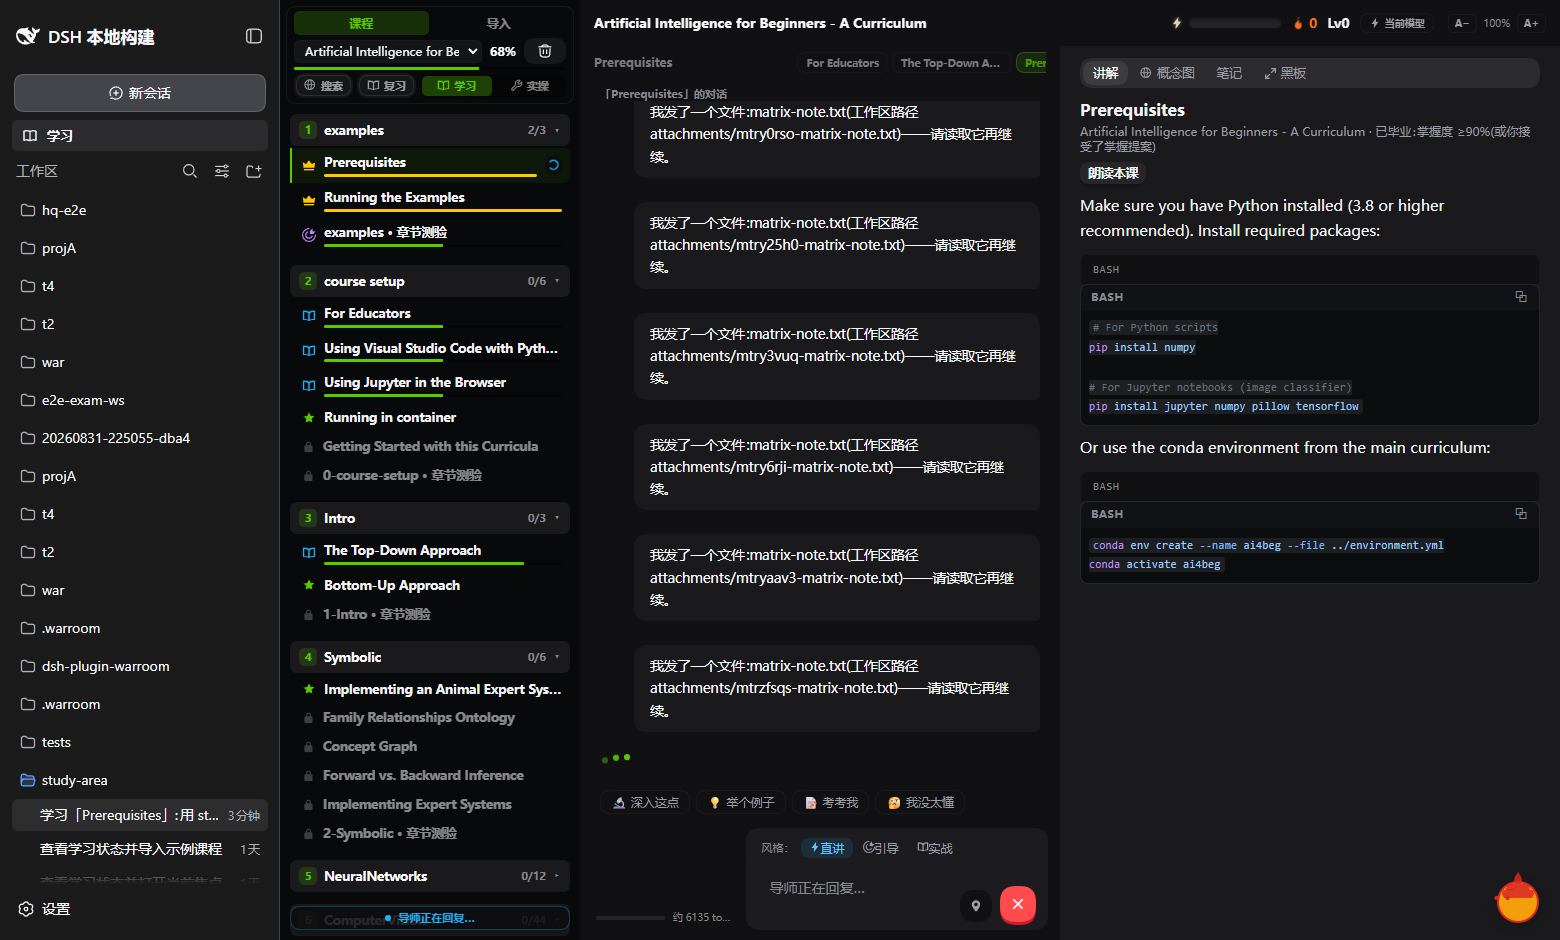
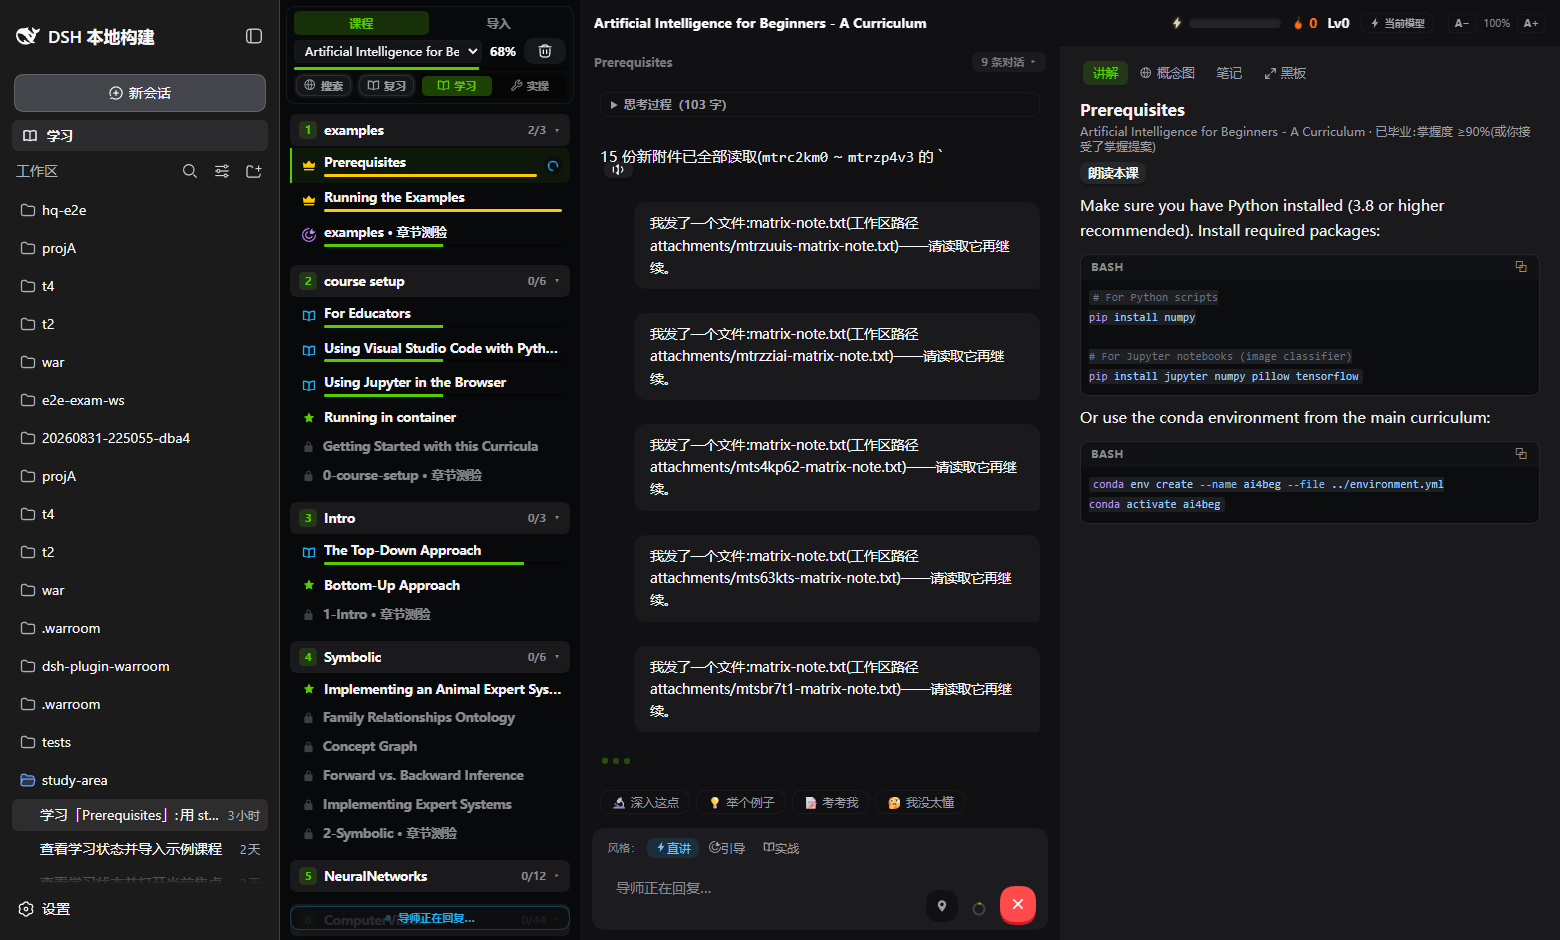
docs: retake all eight README screenshots on the 0.20 build (both themes) — companion-free panel, list rail, labeled thread chip, skinned viewtabs, ghost-card-free code blocks, the context ring beside send; overview alt text stops calling the retired balloon map

diff --git a/README.md b/README.md
@@ -6,7 +6,7 @@ Turn any markdown document, local folder, or GitHub learning repository into a g
 
 | | |
 |---|---|
-| ![Three-column study panel: balloon course map, tutor chat, blackboard](docs/media/overview.png)<br>![Same panel in light theme](docs/media/overview-light.png) | **The 学习 panel** — LookatStudy's UI 1:1 in **both themes** (the panel follows the host's dark/light switch live): the floating XP/streak app header, the three-column surface ladder (rail / chat / notebook, depth by color step), 3D push-down buttons, and the chat's typing dots; opened from the sidebar's 学习 row. |
+| ![Three-column study panel: course rail list, tutor chat, blackboard](docs/media/overview.png)<br>![Same panel in light theme](docs/media/overview-light.png) | **The 学习 panel** — LookatStudy's UI 1:1 in **both themes** (the panel follows the host's dark/light switch live): the floating XP/streak app header, the three-column surface ladder (rail / chat / notebook, depth by color step), 3D push-down buttons, and the chat's typing dots; opened from the sidebar's 学习 row. |
 | ![Lesson page with rendered math, code and diagrams](docs/media/blackboard-lesson.png)<br>![Lesson page, light theme](docs/media/blackboard-lesson-light.png) | **讲解** — server-sanitized markdown rendered rich on demand: KaTeX formulas, syntax-highlighted code (shared copy-to-clipboard blocks), mermaid diagrams with a zoomable canvas stage (CDN loaders, silent degrade offline). |
 | ![Concept map view](docs/media/concept-map.png)<br>![Concept map, light theme](docs/media/concept-map-light.png) | **🕸 概念图** — the lesson's knowledge components laid out as a draw.io-style concept graph (bundled ELK layout, no external service). |
 | ![Course rail list](docs/media/course-rail.png)<br>![Course rail, light theme](docs/media/course-rail-light.png) | **课程栏** — the course tree as a quiet list (a deliberate deviation from upstream's gamified map): collapsible section heads with done/total counts, lesson rows carrying the status glyph (locked / available / in-progress / mastered crown / purple exam), inline mastery bars, due badges, streaming spinners, and hover tooltips that explain every state; the focused row is brand-edged. |
